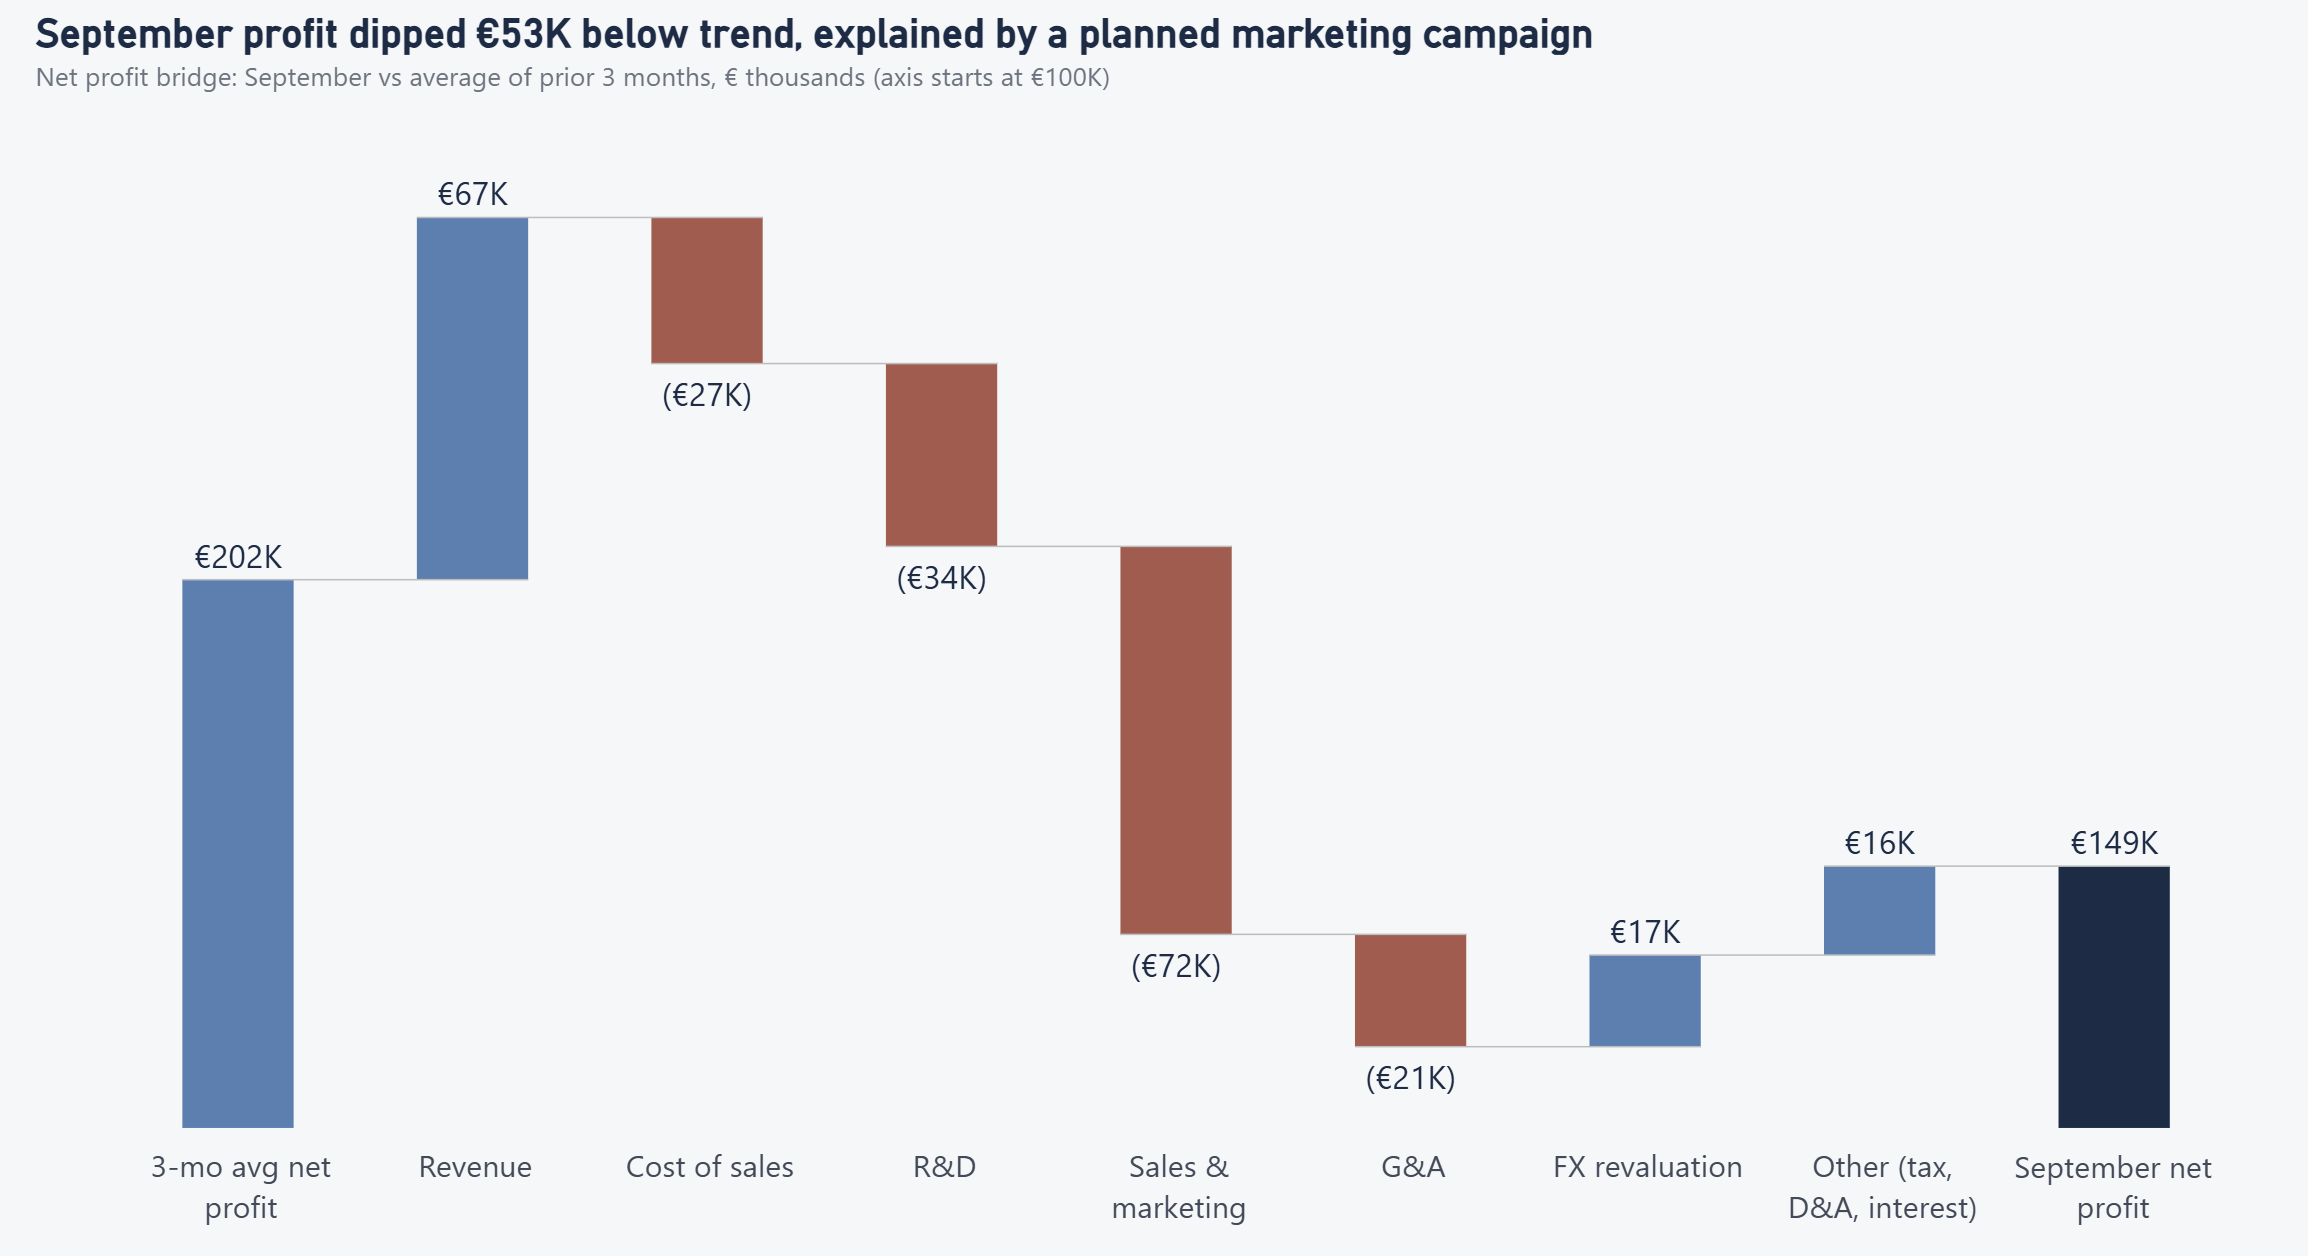
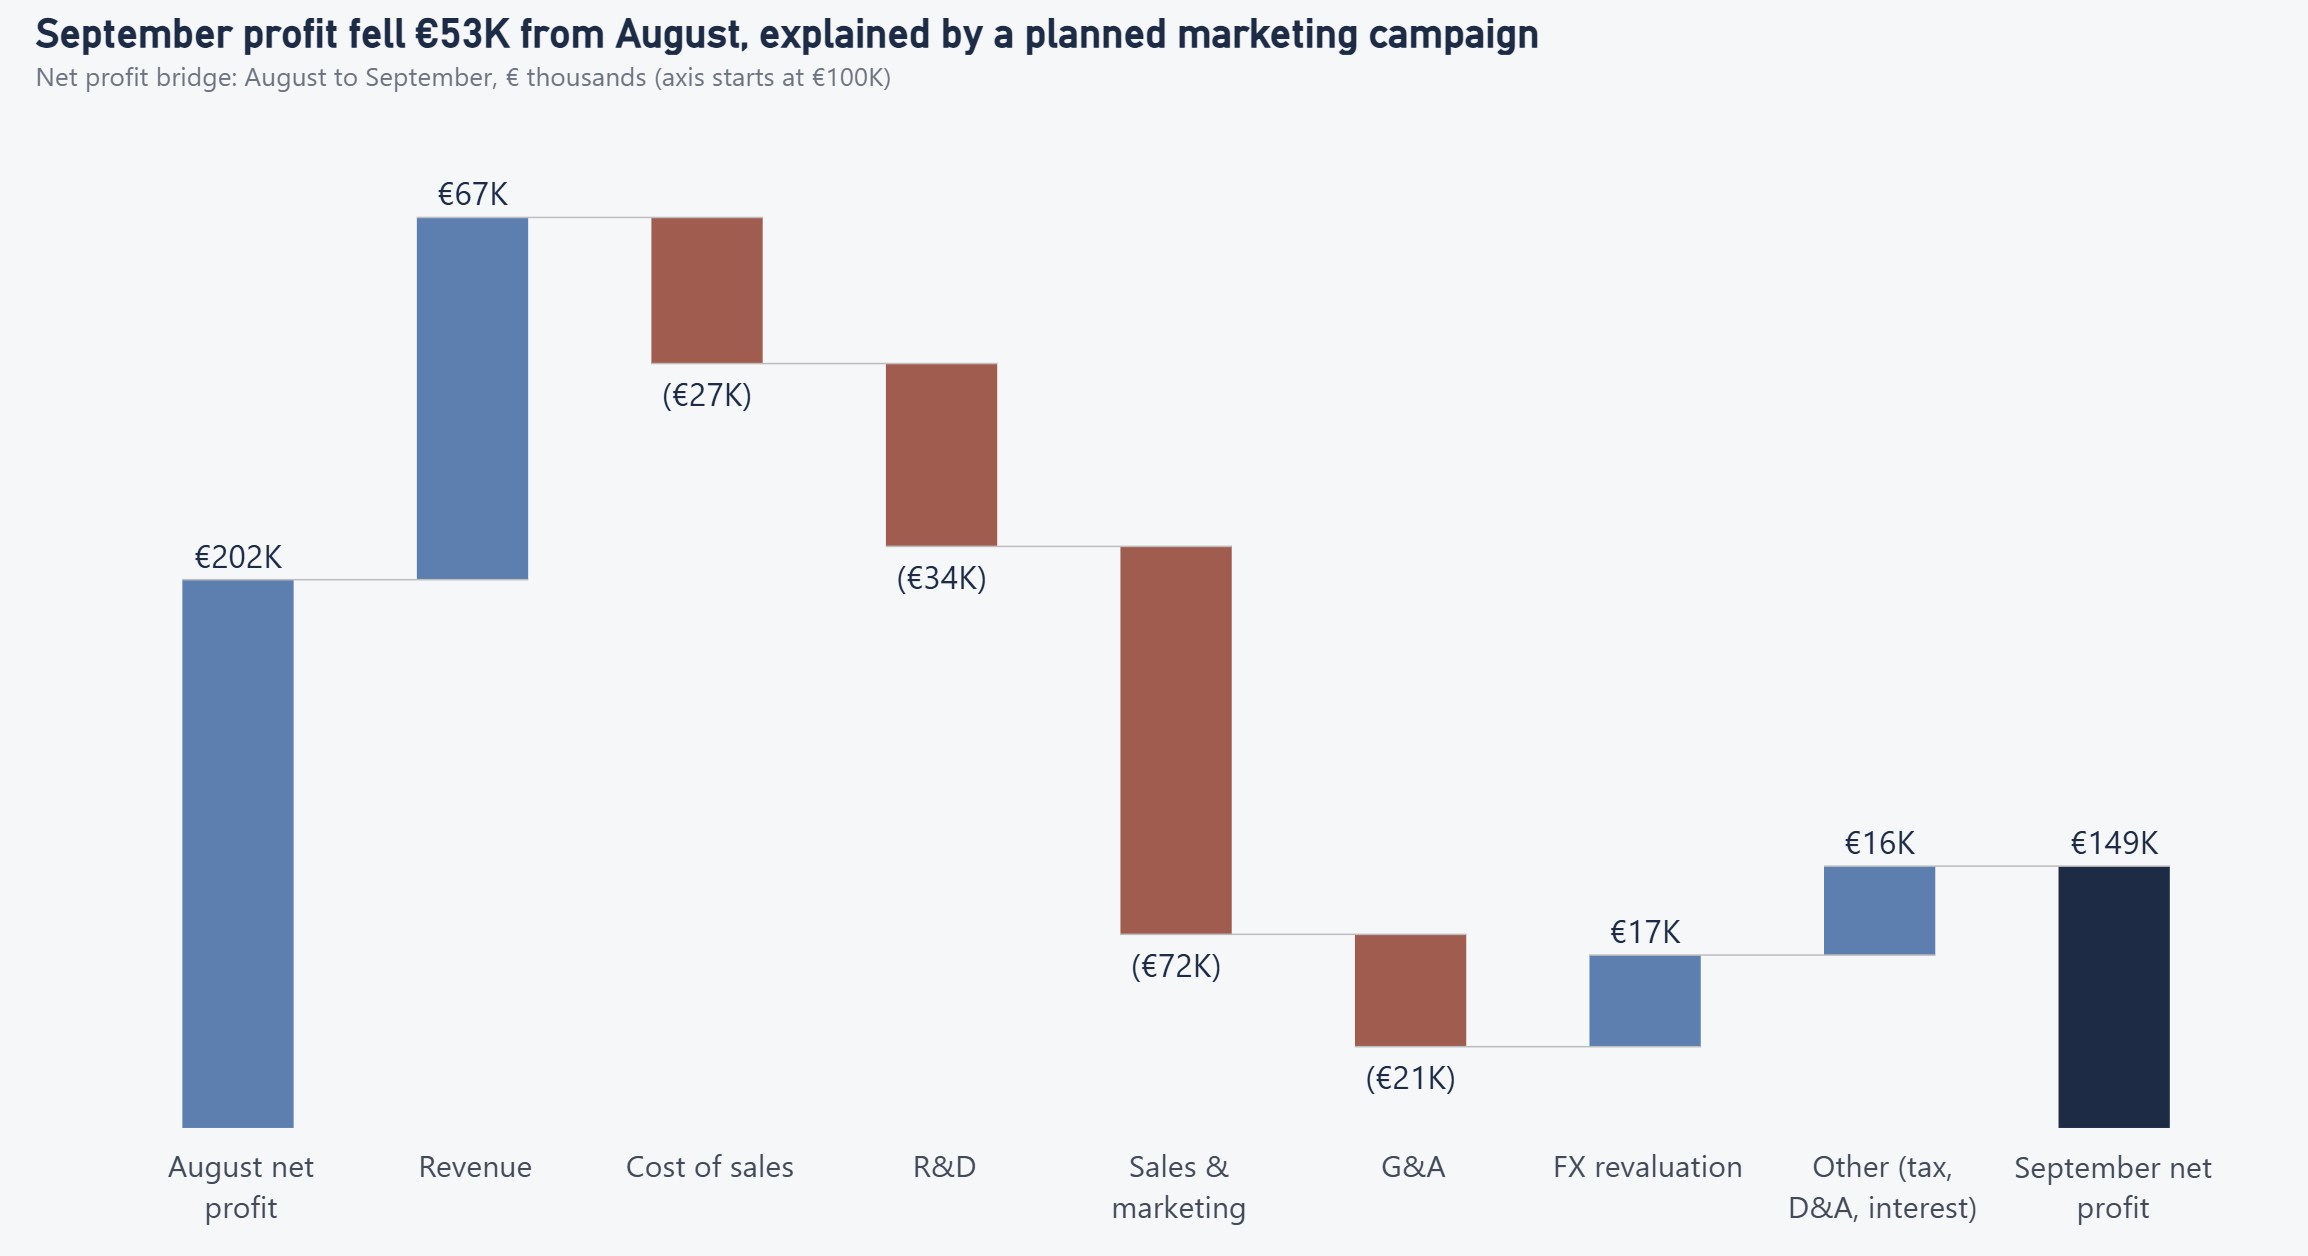
Relabel profit exhibit as August to September

Changed region(s): [[0.0936, 0.0, 0.6863, 0.0932], [0.0624, 0.9005, 0.1248, 0.9626]]

diff --git a/index.html b/index.html
@@ -175,13 +175,13 @@ footer .wrap { border-top: 1px solid var(--rule); padding-block: 22px; font-size
     <div class="story-text">
       <div class="story-no">02 · Profit</div>
       <h3>Why did profit dip this month?</h3>
-      <p class="takeaway">Net profit fell €53K below the 3-month average, despite revenue rising €67K.</p>
+      <p class="takeaway">Net profit fell €53K from August to September, despite revenue rising €67K.</p>
       <dl>
-        <div><dt>What it showed</dt><dd>An autumn sales and marketing campaign added €72K of cost. Without it, profit would have been about €19K above trend.</dd></div>
+        <div><dt>What it showed</dt><dd>An autumn sales and marketing campaign added €72K of cost. Without it, profit would have been about €19K above August.</dd></div>
         <div><dt>So what</dt><dd>The dip was a deliberate investment, not a margin problem. The right response is a campaign return checkpoint before further Q4 spend.</dd></div>
       </dl>
     </div>
-    <a class="story-img" href="img/exhibit_2_profit.png?v=6" target="_blank" rel="noopener"><picture><source media="(max-width: 600px)" srcset="img/exhibit_2_profit_phone.png?v=6"><img src="img/exhibit_2_profit.png?v=6" alt="Net profit bridge from the 3-month average of €202K to €149K, by driver" loading="lazy"></picture></a>
+    <a class="story-img" href="img/exhibit_2_profit.png?v=7" target="_blank" rel="noopener"><picture><source media="(max-width: 600px)" srcset="img/exhibit_2_profit_phone.png?v=7"><img src="img/exhibit_2_profit.png?v=7" alt="Net profit bridge from €202K in August to €149K in September, by driver" loading="lazy"></picture></a>
   </article>
 
   <article class="story">
